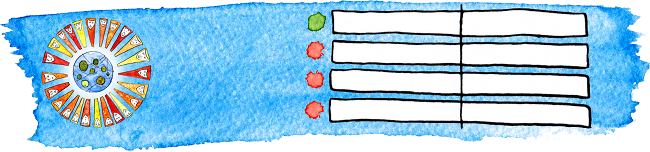
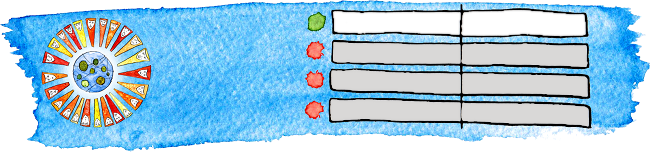
Watson 2.0: Tweak appearance of bar backgrounds; improve printing.

diff --git a/web/watson_2_0/investigators_report/solution/index.html b/web/watson_2_0/investigators_report/solution/index.html
@@ -14,7 +14,7 @@ and convert the result to letters in ASCII to obtain the answer,
 <div class="h">1. This best-selling book flew off the rack.</div>
 <div class="ans">(Scrabble value.)</div>
 <div class="i">
-  <img class="full" src="../graphic-bottom.png" />
+  <img class="full" src="graphic-bottom.png" />
   <div class="bar i0"><div style="width:65%"><img src="../green-bar-seamless.jpg" /></div></div>
   <div class="bar i1"><div style="width:20%"><img src="../red-bar-seamless.jpg" /></div></div>
   <div class="bar i2"><div style="width:12%"><img src="../red-bar-seamless.jpg" /></div></div>
@@ -35,7 +35,7 @@ and convert the result to letters in ASCII to obtain the answer,
 <div class="h">2. This word might appear in a letter to a valued friend.</div>
 <div class="ans">(Convert letters to numbers via A=1 B=2 etc; sum.)</div>
 <div class="i">
-  <img class="full" src="../graphic-bottom.png" />
+  <img class="full" src="graphic-bottom.png" />
   <div class="bar i0"><div style="width:70%"><img src="../green-bar-seamless.jpg" /></div></div>
   <div class="bar i1"><div style="width:48%"><img src="../red-bar-seamless.jpg" /></div></div>
   <div class="bar i2"><div style="width:37%"><img src="../red-bar-seamless.jpg" /></div></div>
@@ -57,7 +57,7 @@ and convert the result to letters in ASCII to obtain the answer,
 <div class="ans">(Each word is a Unicode character; take the last byte of the code
   point in decimal.)</div>
 <div class="i">
-  <img class="full" src="../graphic-bottom.png" />
+  <img class="full" src="graphic-bottom.png" />
   <div class="bar i0"><div style="width:85%"><img src="../green-bar-seamless.jpg" /></div></div>
   <div class="bar i1"><div style="width:63%"><img src="../red-bar-seamless.jpg" /></div></div>
   <div class="bar i2"><div style="width:58%"><img src="../red-bar-seamless.jpg" /></div></div>
@@ -74,11 +74,11 @@ and convert the result to letters in ASCII to obtain the answer,
 </div>
 </div>
 
-<div class="item ans4" style="page-break-before:always">
+<div class="item ans4">
 <div class="h">4. This is part of a lengthy and miserable experience.</div>
 <div class="ans">(Multiply the length by 5.)</div>
 <div class="i">
-  <img class="full" src="../graphic-bottom.png" />
+  <img class="full" src="graphic-bottom.png" />
   <div class="bar i0"><div style="width:70%"><img src="../green-bar-seamless.jpg" /></div></div>
   <div class="bar i1"><div style="width:35%"><img src="../red-bar-seamless.jpg" /></div></div>
   <div class="bar i2"><div style="width:30%"><img src="../red-bar-seamless.jpg" /></div></div>
@@ -99,7 +99,7 @@ and convert the result to letters in ASCII to obtain the answer,
 <div class="h">5. Even the ancient Romans may have had to pay this burden.</div>
 <div class="ans">(Extract Roman numerals and sum.)</div>
 <div class="i">
-  <img class="full" src="../graphic-bottom.png" />
+  <img class="full" src="graphic-bottom.png" />
   <div class="bar i0"><div style="width:70%"><img src="../green-bar-seamless.jpg" /></div></div>
   <div class="bar i1"><div style="width:56%"><img src="../red-bar-seamless.jpg" /></div></div>
   <div class="bar i2"><div style="width:52%"><img src="../red-bar-seamless.jpg" /></div></div>
@@ -120,7 +120,7 @@ and convert the result to letters in ASCII to obtain the answer,
 <div class="h">6. You might use the phrase &ldquo;robbed blind&rdquo; while talking about this.</div>
 <div class="ans">(Write in Braille and count dots.)</div>
 <div class="i">
-  <img class="full" src="../graphic-bottom.png" />
+  <img class="full" src="graphic-bottom.png" />
   <div class="bar i0"><div style="width:79%"><img src="../green-bar-seamless.jpg" /></div></div>
   <div class="bar i1"><div style="width:34%"><img src="../red-bar-seamless.jpg" /></div></div>
   <div class="bar i2"><div style="width:28%"><img src="../red-bar-seamless.jpg" /></div></div>
@@ -141,7 +141,7 @@ and convert the result to letters in ASCII to obtain the answer,
 <div class="h">7. This man was born to run.</div>
 <div class="ans">(Each answer is a person; take the last two digits of the year of birth.)</div>
 <div class="i">
-  <img class="full" src="../graphic-bottom.png" />
+  <img class="full" src="graphic-bottom.png" />
   <div class="bar i0"><div style="width:85%"><img src="../green-bar-seamless.jpg" /></div></div>
   <div class="bar i1"><div style="width:53%"><img src="../red-bar-seamless.jpg" /></div></div>
   <div class="bar i2"><div style="width:35%"><img src="../red-bar-seamless.jpg" /></div></div>
@@ -158,11 +158,11 @@ and convert the result to letters in ASCII to obtain the answer,
 </div>
 </div>
 
-<div class="item ans8" style="page-break-before:always">
+<div class="item ans8">
 <div class="h">8. Even a two-bit company must follow these rules.</div>
 <div class="ans">(Extract I and O and read binary number as if they were 1 and 0.)</div>
 <div class="i">
-  <img class="full" src="../graphic-bottom.png" />
+  <img class="full" src="graphic-bottom.png" />
   <div class="bar i0"><div style="width:82%"><img src="../green-bar-seamless.jpg" /></div></div>
   <div class="bar i1"><div style="width:5%"><img src="../red-bar-seamless.jpg" /></div></div>
   <div class="bar i2"><div style="width:2%"><img src="../red-bar-seamless.jpg" /></div></div>

diff --git a/web/watson_2_0/investigators_report/solution/style.css b/web/watson_2_0/investigators_report/solution/style.css
@@ -22,3 +22,5 @@
 .ans5 .i2 .num > span { font-size: 11px; width: 100%; padding-top: 8px; }
 .ans7 .i1 .num > span { font-size: 12px; width: 100%; padding-top: 8px; }
 .ans7 .i0 .num > span { font-size: 18px; padding-top: 3px; }
+
+.ans3, .ans6 { page-break-before: always; }
